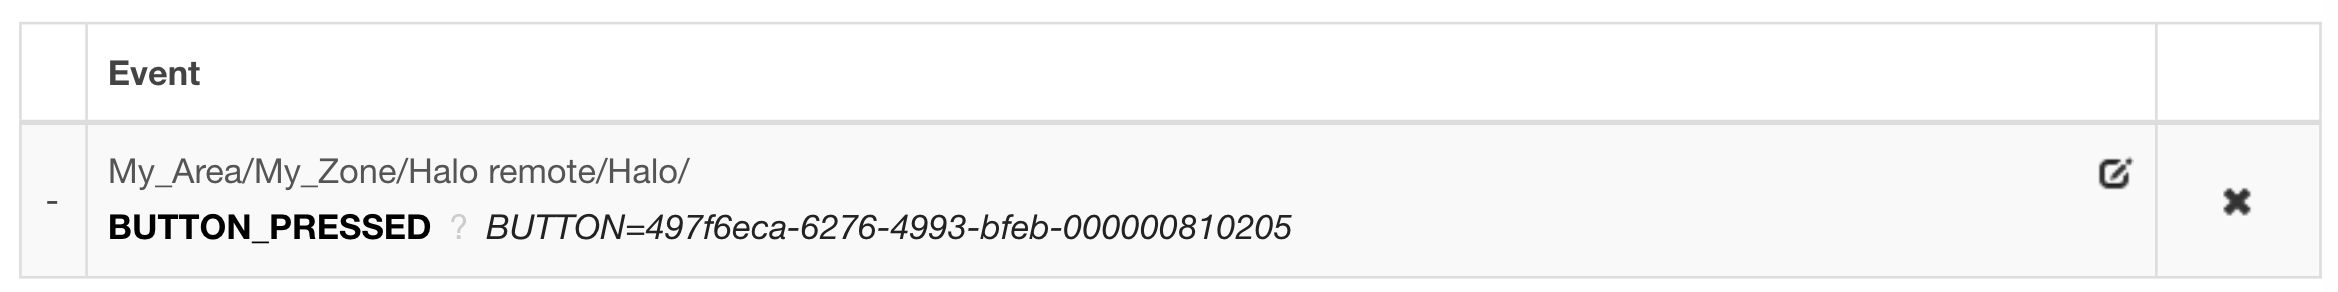
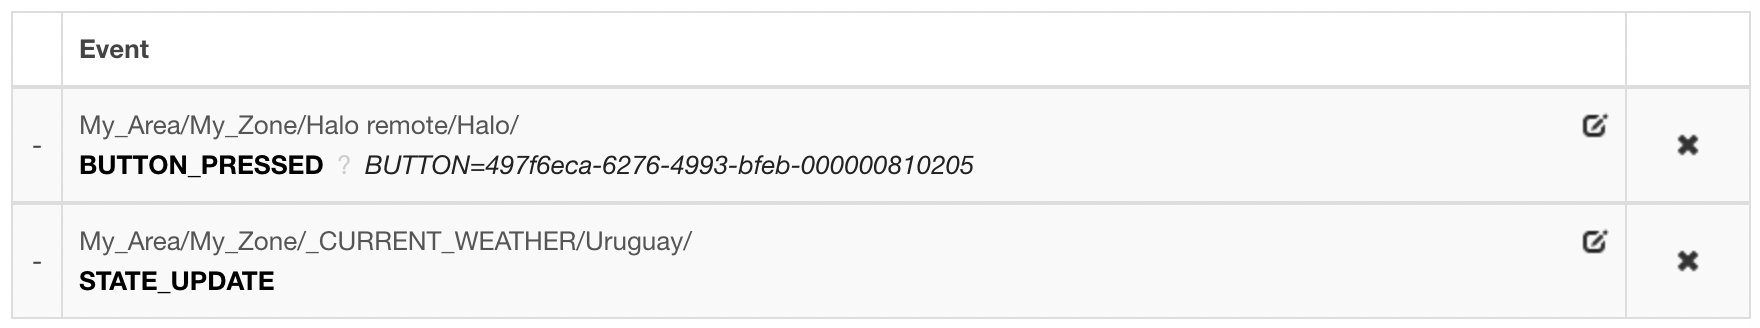
variables for area, zone etc in halo tutorials

diff --git a/bli-guides/_ideas/handle-halo-by-custom-macros.md b/bli-guides/_ideas/handle-halo-by-custom-macros.md
@@ -135,17 +135,28 @@ The complete macro is below, remember to change the Areas, Zones, Resource's Nam
 
 ~~~lua 
 function(event, engine)
-  local fired_query = engine.query("MyArea/MyZone/VARIABLE/Fired")
+
+ ------ FILL WITH YOUR INFORMATION -----  
+  local area = "MyArea"
+  local zone = "MyZone"
+  local halo_name = "Halo"
+  local halo_button_id = "497f6eca-6276-4993-bfeb-000000810179"
+  local alarm_name = "Alarm"
+  local alarm_area = "MyArea"
+  local alarm_zone = "MyZone"
+-----------------------------------------
+  
+  local fired_query = engine.query(area.."/"..zone.."/VARIABLE/Fired")
   local fired = fired_query[1].get_boolean("VALUE")
   if not fired then
-  engine.fire("MyArea/MyZone/VARIABLE/Fired/SET?VALUE=true")
-    local number_query = engine.query("MyArea/MyZone/VARIABLE/Number")
+  engine.fire(area.."/"..zone.."/VARIABLE/Fired/SET?VALUE=true")
+    local number_query = engine.query(area.."/"..zone.."/VARIABLE/Number")
     local number = number_query[1].get_number("VALUE")
 
-    local code_query = engine.query("MyArea/MyZone/VARIABLE/Code")
+    local code_query = engine.query(area.."/"..zone.."/VARIABLE/Code")
     local code = code_query[1].get_string("VALUE")
 
-    local direction_query = engine.query("MyArea/MyZone/VARIABLE/Direction")
+    local direction_query = engine.query(area.."/"..zone.."/VARIABLE/Direction")
     local direction = direction_query[1].get_boolean("VALUE")
     
     if event.parameters()["OFFSET"] then
@@ -153,14 +164,14 @@ function(event, engine)
         if direction then
           number = number + 1
         else
-          engine.fire("MyArea/MyZone/VARIABLE/Direction/SET?VALUE=true")
+          engine.fire(area.."/"..zone.."/VARIABLE/Direction/SET?VALUE=true")
           code = code..tostring(number)
         end
       else
         if not direction then
           number = number - 1
         else
-          engine.fire("MyArea/MyZone/VARIABLE/Direction/SET?VALUE=false")
+          engine.fire(area.."/"..zone.."/VARIABLE/Direction/SET?VALUE=false")
           code = code..tostring(number)
         end
       end
@@ -169,27 +180,27 @@ function(event, engine)
       elseif (number == -1) then
         number = 9
       end
-      engine.fire("MyArea/MyZone/VARIABLE/Number/SET?VALUE="..tostring(number))
-      engine.fire("MyArea/MyZone/Halo remote/Halo/SET_TEXT?BUTTON=497f6eca-6276-4993-bfeb-000000810179&TEXT="..tostring(number))
+      engine.fire(area.."/"..zone.."/VARIABLE/Number/SET?VALUE="..tostring(number))
+      engine.fire(area.."/"..zone.."/Halo remote/"..halo_name.."/SET_TEXT?BUTTON="..halo_button_id.."&TEXT="..tostring(number))
       anon_code = code:gsub(".","*",4)
-      engine.fire("MyArea/MyZone/Halo remote/Halo/SET_TITLE?BUTTON=497f6eca-6276-4993-bfeb-000000810179&TITLE="..anon_code)
+      engine.fire(area.."/"..zone.."/Halo remote/"..halo_name.."/SET_TITLE?BUTTON="..halo_button_id.."&TITLE="..anon_code)
 
       if (string.len(code)>=4) then
-         engine.fire("Main/global/ALARM/Alarm/DISARM?CODE="..code)
-         engine.fire("MyArea/MyZone/VARIABLE/Code/SET?VALUE=")
-         engine.fire("MyArea/MyZone/Halo remote/Halo/SET_TITLE?BUTTON=497f6eca-6276-4993-bfeb-000000810179&TITLE=FIRED")
-         engine.fire("MyArea/MyZone/Halo remote/Halo/SET_ICON?BUTTON=497f6eca-6276-4993-bfeb-000000810179&ICON=unlock")
+         engine.fire(alarm_area.."/"..alarm_zone.."/ALARM/"..alarm_name.."/DISARM?CODE="..code)
+         engine.fire(area.."/"..zone.."/VARIABLE/Code/SET?VALUE=")
+         engine.fire(area.."/"..zone.."/Halo remote/"..halo_name.."/SET_TITLE?BUTTON="..halo_button_id.."&TITLE=FIRED")
+         engine.fire(area.."/"..zone.."/Halo remote/"..halo_name.."/SET_ICON?BUTTON="..halo_button_id.."&ICON=unlock")
       else
-        engine.fire("MyArea/MyZone/VARIABLE/Code/SET?VALUE="..code)
+        engine.fire(area.."/"..zone.."/VARIABLE/Code/SET?VALUE="..code)
       end 
     else
-      engine.fire("MyArea/MyZone/VARIABLE/Code/SET?VALUE=")
-      engine.fire("MyArea/MyZone/VARIABLE/Number/SET?VALUE=0")
-      engine.fire("MyArea/MyZone/VARIABLE/Direction/SET?VALUE=true")
-      engine.fire("MyArea/MyZone/Halo remote/Halo/SET_TEXT?BUTTON=497f6eca-6276-4993-bfeb-000000810179&TEXT=0")
-      engine.fire("MyArea/MyZone/Halo remote/Halo/SET_TITLE?BUTTON=497f6eca-6276-4993-bfeb-000000810179&TITLE=BEGIN")
+      engine.fire(area.."/"..zone.."/VARIABLE/Code/SET?VALUE=")
+      engine.fire(area.."/"..zone.."/VARIABLE/Number/SET?VALUE=0")
+      engine.fire(area.."/"..zone.."/VARIABLE/Direction/SET?VALUE=true")
+      engine.fire(area.."/"..zone.."/Halo remote/"..halo_name.."/SET_TEXT?BUTTON="..halo_button_id.."&TEXT=0")
+      engine.fire(area.."/"..zone.."/Halo remote/"..halo_name.."/SET_TITLE?BUTTON="..halo_button_id.."&TITLE=BEGIN")
     end
-    engine.fire("MyArea/MyZone/VARIABLE/Fired/SET?VALUE=false")
+    engine.fire(area.."/"..zone.."/VARIABLE/Fired/SET?VALUE=false")
  end
 end 
 

diff --git a/bli-guides/_ideas/halo-clock-weather.md b/bli-guides/_ideas/halo-clock-weather.md
@@ -19,6 +19,14 @@ The code is as follows:
 
 ~~~lua
 function(event, engine) 
+  
+  ------ FILL WITH YOUR INFORMATION -----
+  local area = "My_Area"
+  local zone = "My_Zone"
+  local halo_name = "Halo"
+  local halo_button_id = "497f6eca-6276-4993-bfeb-000000810206"
+  ----------------------------------------
+  
   local clock = engine.query("*/*/SYSTEM/Clock")[1]
   day = clock.get_number("day")
   month = clock.get_number("month")
@@ -35,10 +43,10 @@ function(event, engine)
     hour = "0"..hour
   end
 
-  engine.fire("My_Area/My_Zone/Halo remote/Halo/SET_TEXT?BUTTON=497f6eca-6276-4993-bfeb-000000810206&TEXT="..tostring(hour)..":"..minute)
-  engine.fire("My_Area/My_Zone/Halo remote/Halo/SET_SUBTITLE?BUTTON=497f6eca-6276-4993-bfeb-000000810206&SUBTITLE="..day.."/"..month)
+  engine.fire(area.."/"..zone.."/Halo remote/"..halo_name.."/SET_TEXT?BUTTON="..halo_button_id.."&TEXT="..tostring(hour)..":"..minute)
+  engine.fire(area.."/"..zone.."/Halo remote/"..halo_name.."/SET_SUBTITLE?BUTTON="..halo_button_id.."&SUBTITLE="..day.."/"..month)
   
-  engine.fire("My_Area/My_Zone/Halo remote/Halo/SET_WHEEL_VALUE?BUTTON=497f6eca-6276-4993-bfeb-000000810206&VALUE="..tostring((math.floor((hour%12)*100/12))))
+  engine.fire(area.."/"..zone.."/Halo remote/"..halo_name.."/SET_WHEEL_VALUE?BUTTON="..halo_button_id.."&VALUE="..tostring((math.floor((hour%12)*100/12))))
 end
 ~~~
 
@@ -49,7 +57,7 @@ The macro begins by checking the clock's state and getting the day, month, hour 
 This macro will read the current weather and write it in the subtitle as well as showing a related icon every time the button is pressed.
 For this one we will use the Open Weather system included in the BLI. As resources we will add in the same area and zone as the Halo, a CURRENT_WEATHER resource (although you can choose 3 or 24 Hrs forecast if you prefer), as address set the latitude and longitude of the place you would like to know the weather of. In this example we will use "-34.0634:-55.7284" and name the variable Uruguay.
 
-The event for this macro is as follows:
+The events for this macro are as follows:
 
 <div class="text-center">
   <img src="/bli-guides/pictures/HaloEventWeather.png" class="img-fluid" alt="Event to execute the Macro"/>
@@ -59,7 +67,16 @@ The code:
 
 ~~~lua
 function(event, engine) 
-  weather_query = engine.query("My_Area/My_Zone/_CURRENT_WEATHER/Uruguay")
+  
+  ------ FILL WITH YOUR INFORMATION -----
+  local area = "My_Area"
+  local zone = "My_Zone"
+  local open_weather_resource_name = "Uruguay"
+  local halo_name = "Halo"
+  local halo_button_id = "497f6eca-6276-4993-bfeb-000000810205"
+  ----------------------------------------
+  
+  weather_query = engine.query(area.."/"..zone.."/_CURRENT_WEATHER/"..open_weather_resource_name)
   local rain = weather_query[1].get_boolean("_Rain")
   local snow = weather_query[1].get_boolean("_Snow")
   local temperature = weather_query[1].get_celsius("_Temperature")
@@ -80,9 +97,9 @@ function(event, engine)
     icon = "cool"
     subtitle = "COLD: "..tostring(temperature).."˚C"
   end
-  engine.fire("My_Area/My_Zone/Halo remote/Halo/SET_ICON?BUTTON=497f6eca-6276-4993-bfeb-000000810205&ICON="..icon)
-  engine.fire("My_Area/My_Zone/Halo remote/Halo/SET_SUBTITLE?BUTTON=497f6eca-6276-4993-bfeb-000000810205&SUBTITLE="..subtitle)
-end 
+  engine.fire(area.."/"..zone.."/Halo remote/"..halo_name.."/SET_ICON?BUTTON="..halo_button_id.."&ICON="..icon)
+  engine.fire(area.."/"..zone.."/Halo remote/"..halo_name.."/SET_SUBTITLE?BUTTON="..halo_button_id.."&SUBTITLE="..subtitle)
+end
 ~~~
 
 We begin by asking the variable for the current weather, in this case we ask for the Rain, Snow and Temperature, but there are other things you can get (see which ones in Tools->Resource States in the current_weather variable) and then we initialize the variables for the icon and subtitle. We will have to go through these variables and decide which icon and subtitle to choose, if it rains we set the word "RAIN" and the icon for humidity (which is a water drop), if it snows we choose "SNOW" and the cool icon (which is a snow flake). If none of the above apply we decide with the temperature, in this example we chose degree Celsius but you can change the number 20 to 68 if you want Fahrenheit. We decide that a temperature above 20 is hot and below is cold and we add the number to the subtitle. Lastly we set the icon and subtitile of the halo with the values chosen before.
